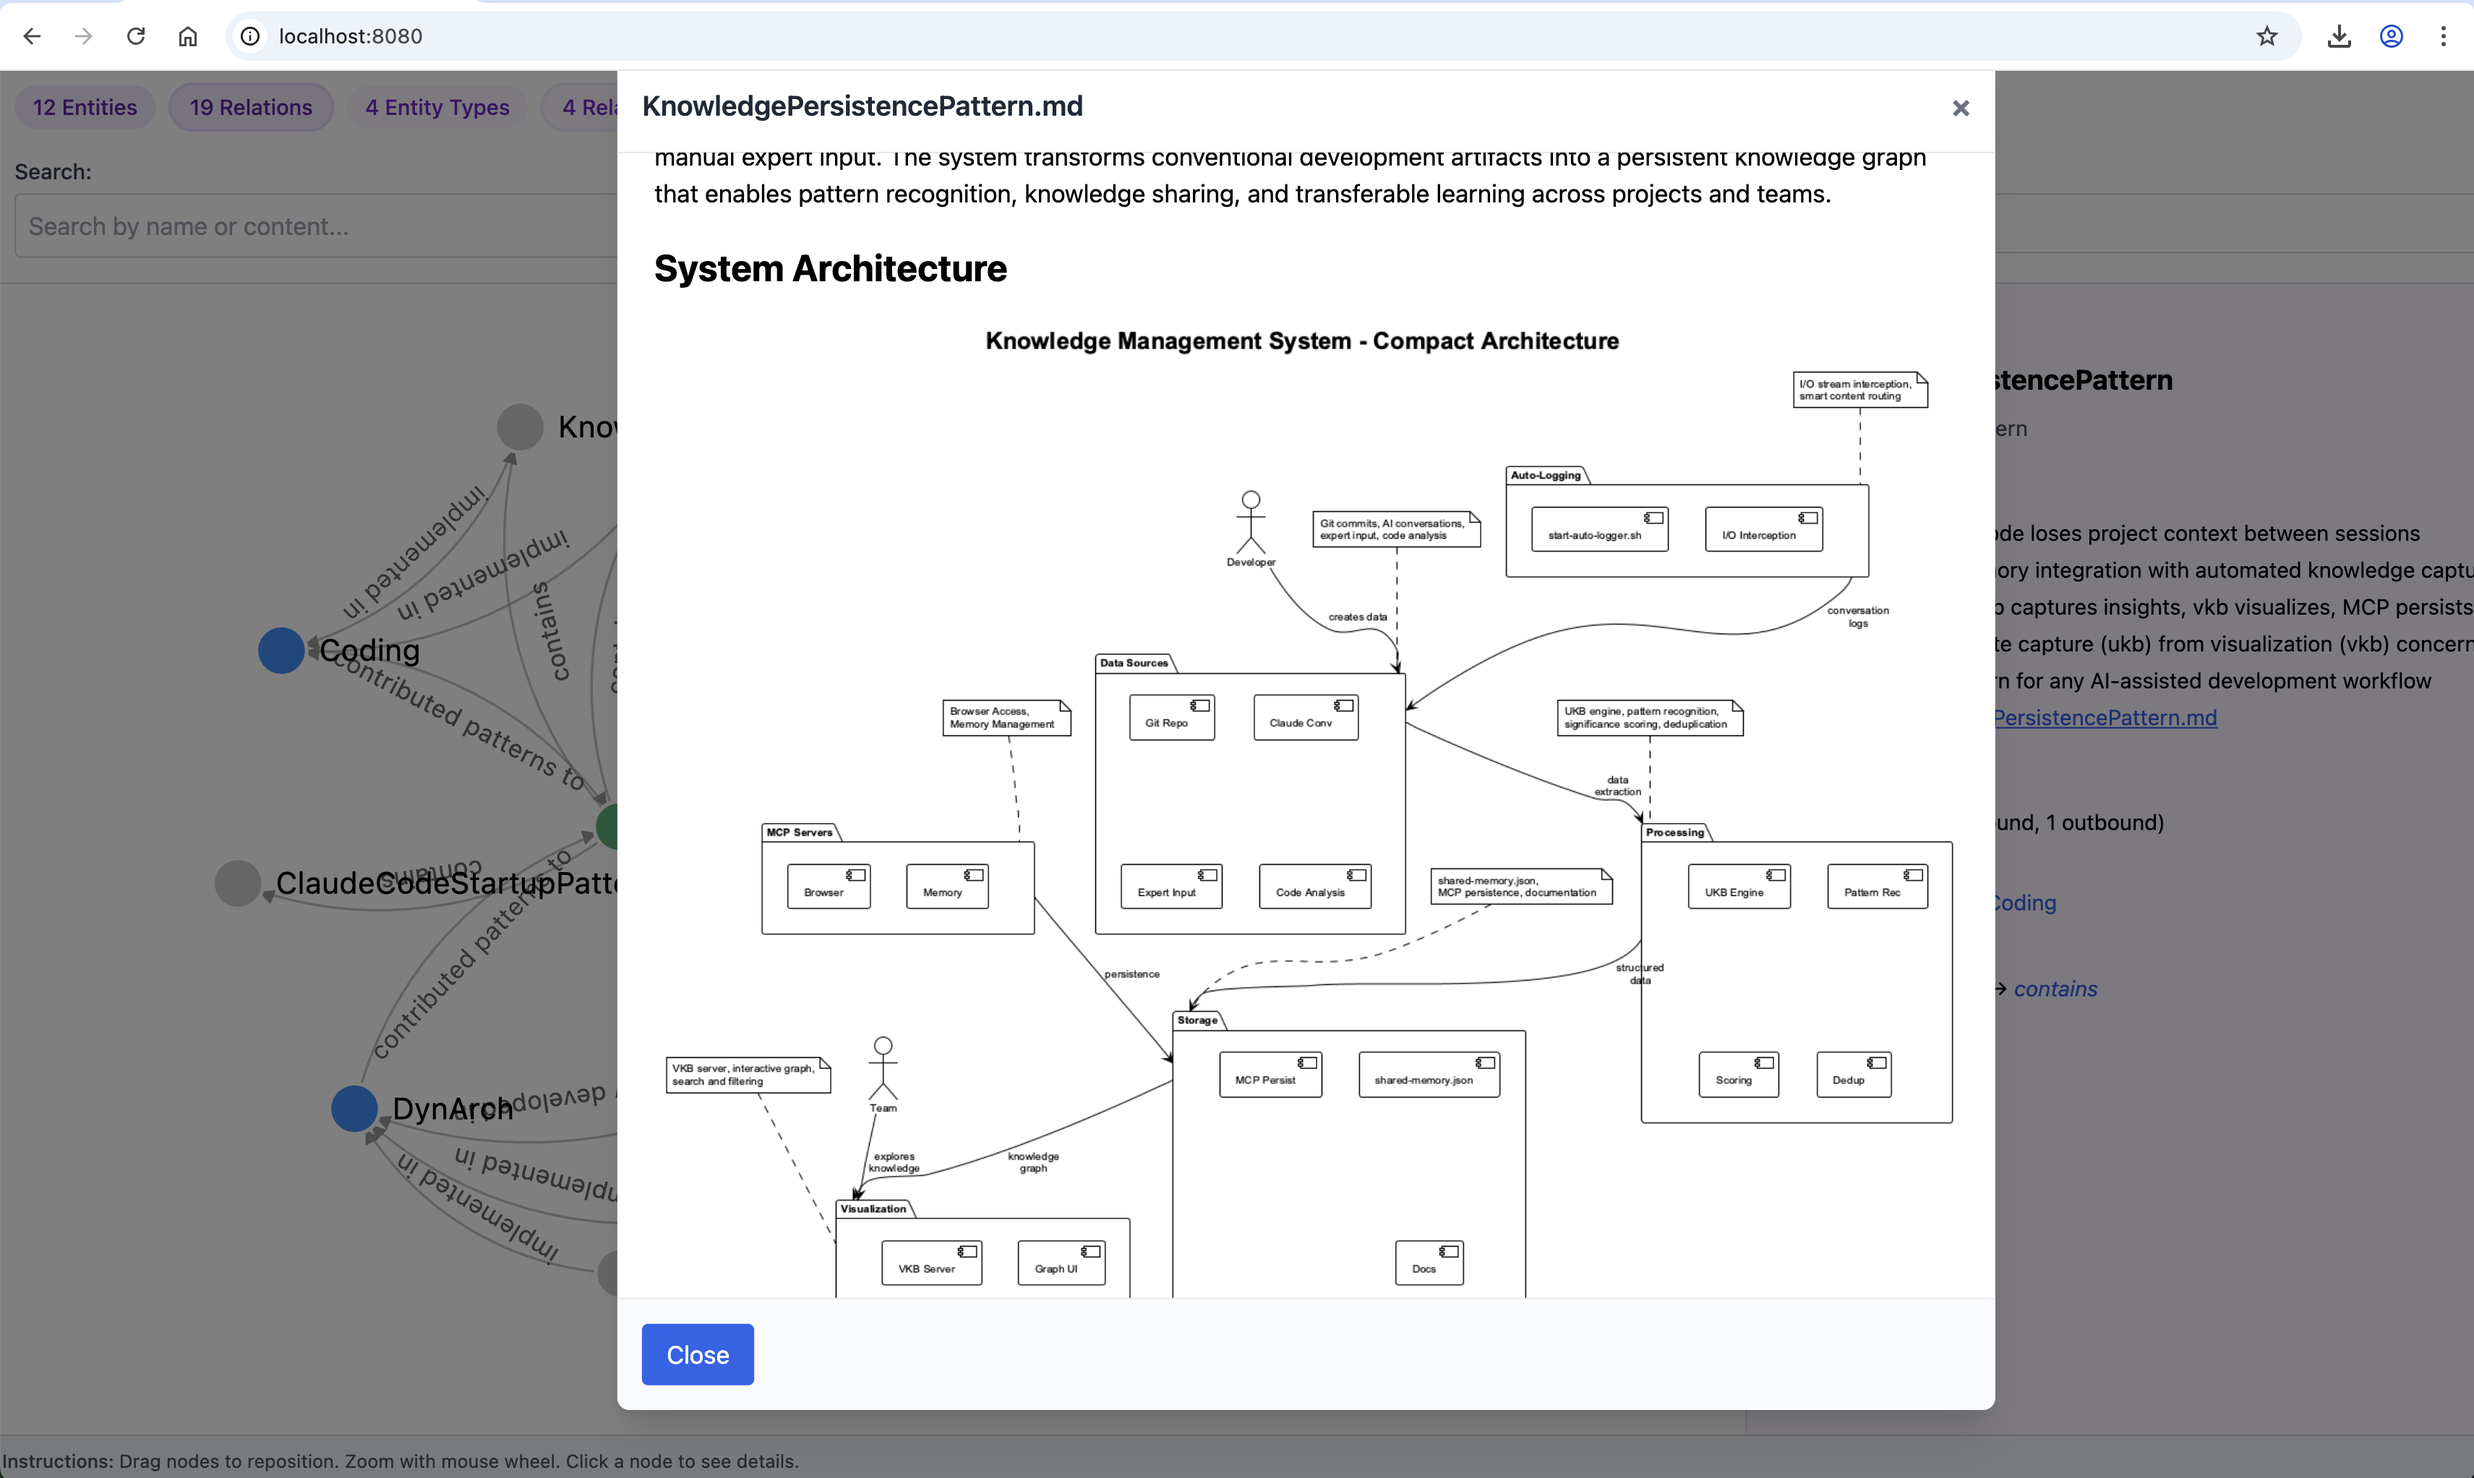
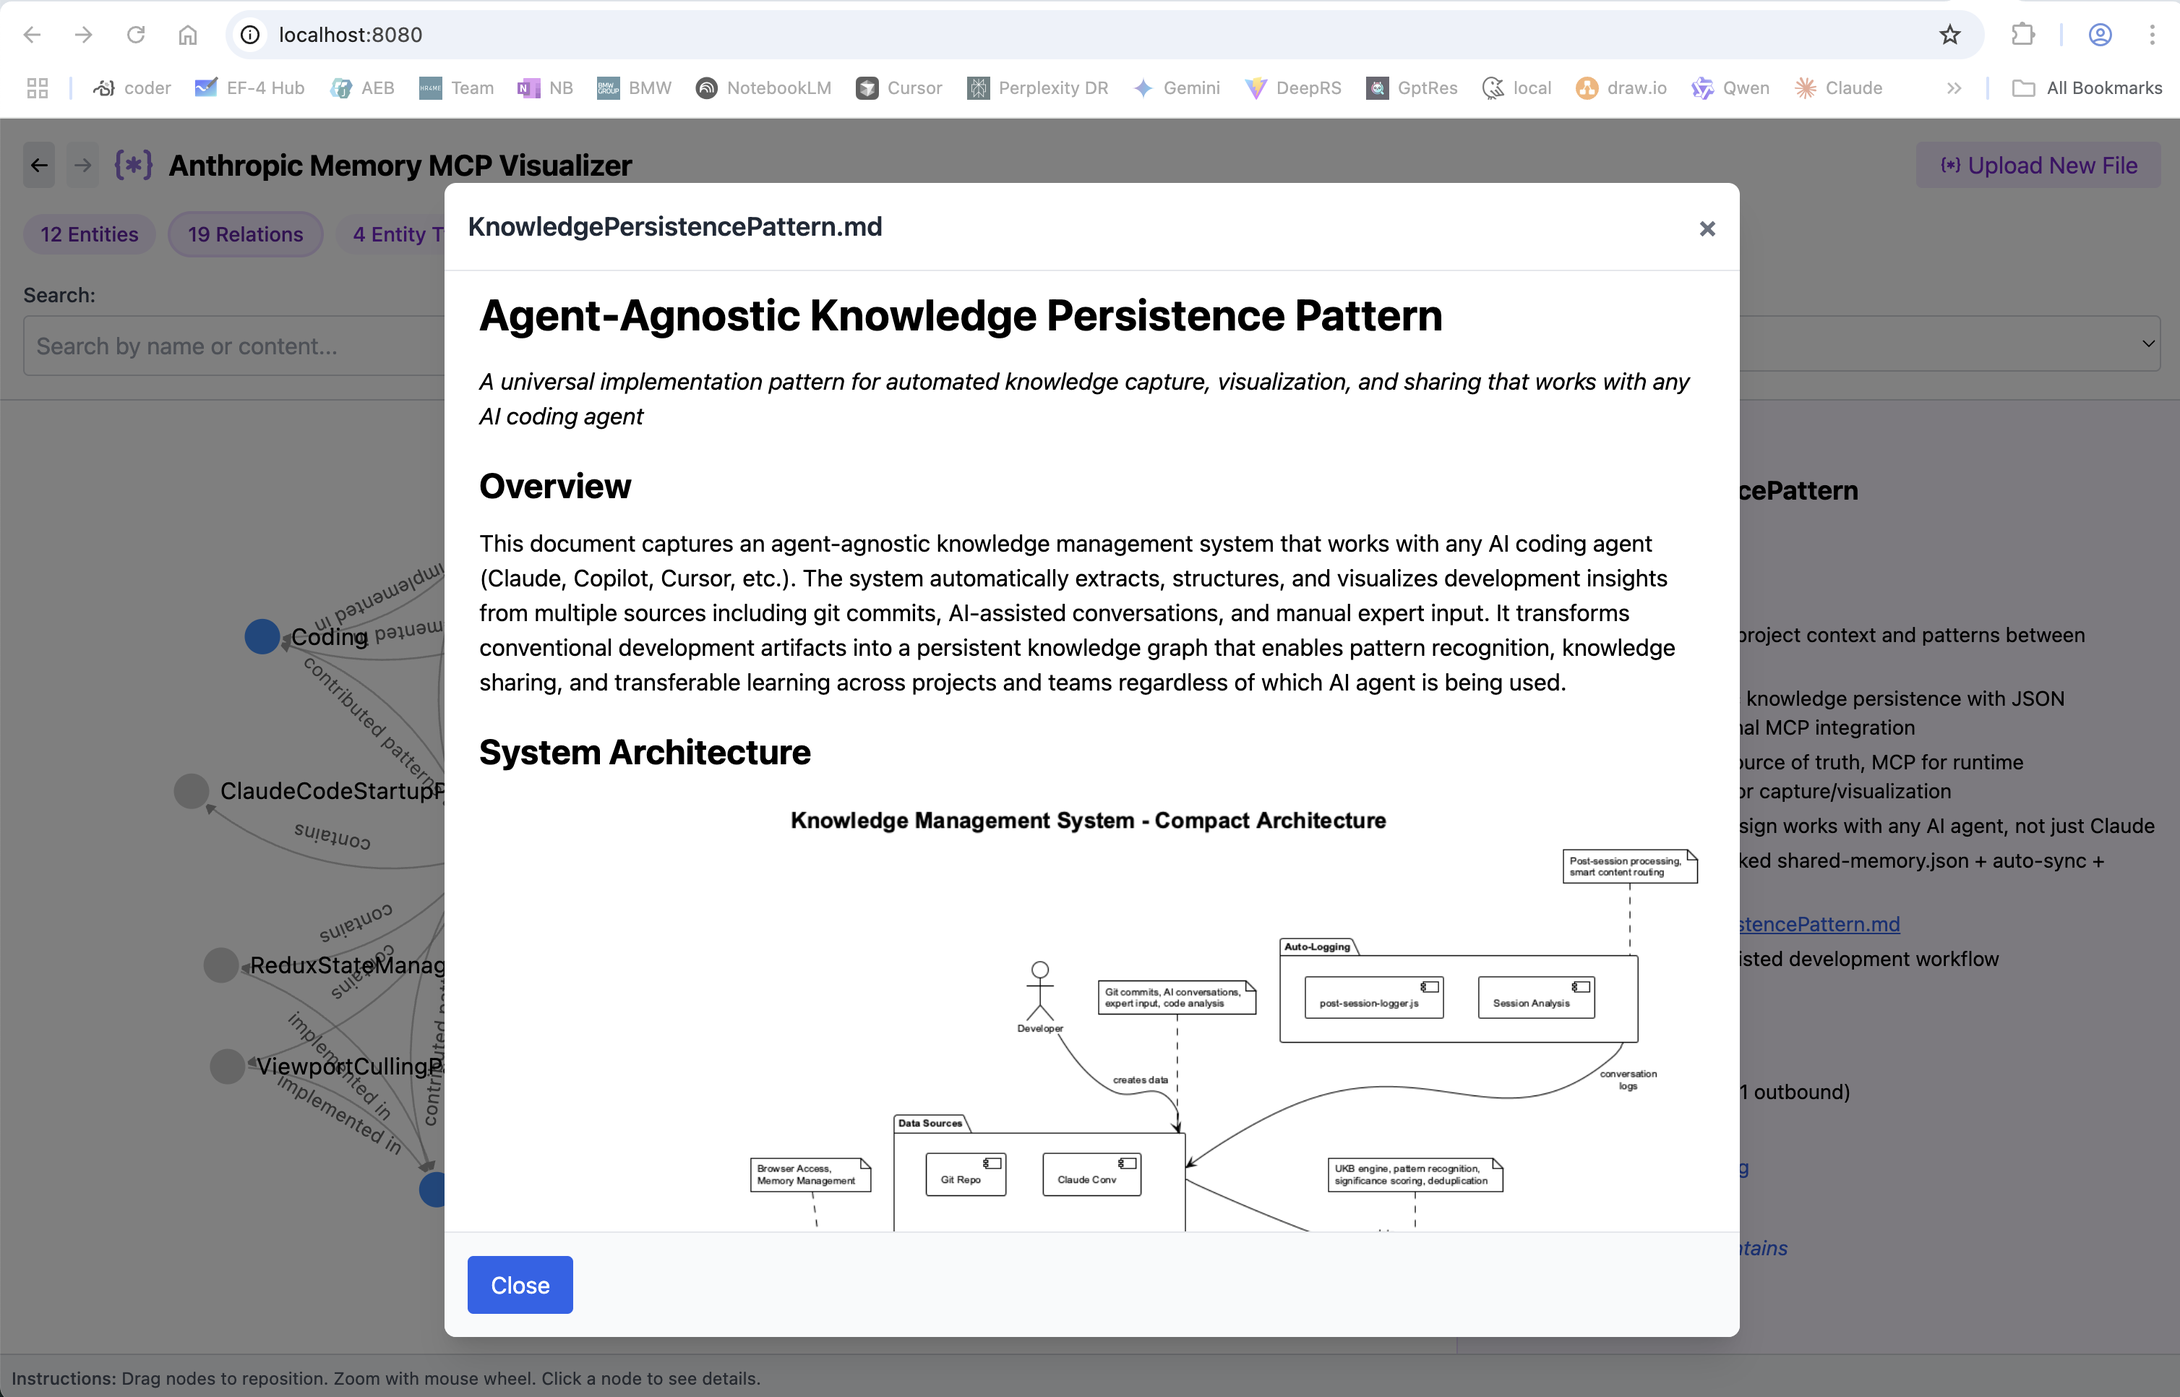
fix: ukb updated (works from within coding launched sessions) & kb udated

diff --git a/knowledge-management/insights/KnowledgePersistencePattern.md b/knowledge-management/insights/KnowledgePersistencePattern.md
@@ -1,10 +1,10 @@
-# Comprehensive Knowledge Management System Pattern
+# Agent-Agnostic Knowledge Persistence Pattern
 
-*A complete implementation pattern for automated knowledge capture, visualization, and sharing in development teams*
+*A universal implementation pattern for automated knowledge capture, visualization, and sharing that works with any AI coding agent*
 
 ## Overview
 
-This document captures a comprehensive knowledge management system that automatically extracts, structures, and visualizes development insights from multiple sources including git commits, AI-assisted conversations, and manual expert input. The system transforms conventional development artifacts into a persistent knowledge graph that enables pattern recognition, knowledge sharing, and transferable learning across projects and teams.
+This document captures an agent-agnostic knowledge management system that works with any AI coding agent (Claude, Copilot, Cursor, etc.). The system automatically extracts, structures, and visualizes development insights from multiple sources including git commits, AI-assisted conversations, and manual expert input. It transforms conventional development artifacts into a persistent knowledge graph that enables pattern recognition, knowledge sharing, and transferable learning across projects and teams regardless of which AI agent is being used.
 
 ## System Architecture
 
@@ -39,7 +39,7 @@ The system implements a multi-layered architecture with clear separation of conc
 
 ### 1. Data Sources Layer
 - **Git Repository**: Conventional commits with structured message format
-- **Claude Code Conversations**: AI-assisted development sessions (.specstory/history)
+- **AI Agent Conversations**: AI-assisted development sessions (.specstory/history) from any agent (Claude, Copilot, Cursor, etc.)
 - **Manual Expert Input**: Interactive insight capture sessions
 - **Code Analysis**: Static analysis of architectural patterns and changes
 
@@ -57,17 +57,19 @@ The system implements a multi-layered architecture with clear separation of conc
 #### MCP Memory Server Integration
 The MCP memory server provides a runtime knowledge graph database that works alongside the file-based storage:
 
-**Available MCP Tools:**
+**Available MCP Tools (when using Claude Code):**
 - `mcp__memory__create_entities` - Add new knowledge entities to runtime graph
 - `mcp__memory__create_relations` - Link entities together in memory
 - `mcp__memory__search_nodes` - Fast querying of the knowledge graph
 - `mcp__memory__read_graph` - Read current runtime graph state
 - `mcp__memory__add_observations` - Add details to existing entities
 
-**Data Flow:**
+**Data Flow (Agent-Agnostic):**
 ```
-UKB Engine → shared-memory.json → MCP Sync Instructions → Claude Code → MCP Memory Server
+UKB Engine → shared-memory.json → [Optional: MCP Sync Instructions → AI Agent] → Git-tracked Knowledge Base
 ```
+
+**Note**: MCP integration provides enhanced features when using Claude Code, but the core system works with any AI agent via the JSON knowledge base.
 
 **Key Benefits:**
 - **Cross-Session Persistence**: Knowledge survives Claude Code restarts

diff --git a/.mcp-sync/auto-sync.md b/.mcp-sync/auto-sync.md
@@ -65,4 +65,4 @@ console.log(`✅ MCP Memory loaded: ${graphState.nodes?.length || 0} entities, $
 - ClaudeCodeStartupPattern (significance: 10)
 - StrategyBasedModularRoutingPattern (significance: 8)
 
-**Sync prepared at:** Sun Jun 15 18:25:54 CEST 2025
+**Sync prepared at:** Sun Jun 15 18:28:25 CEST 2025
